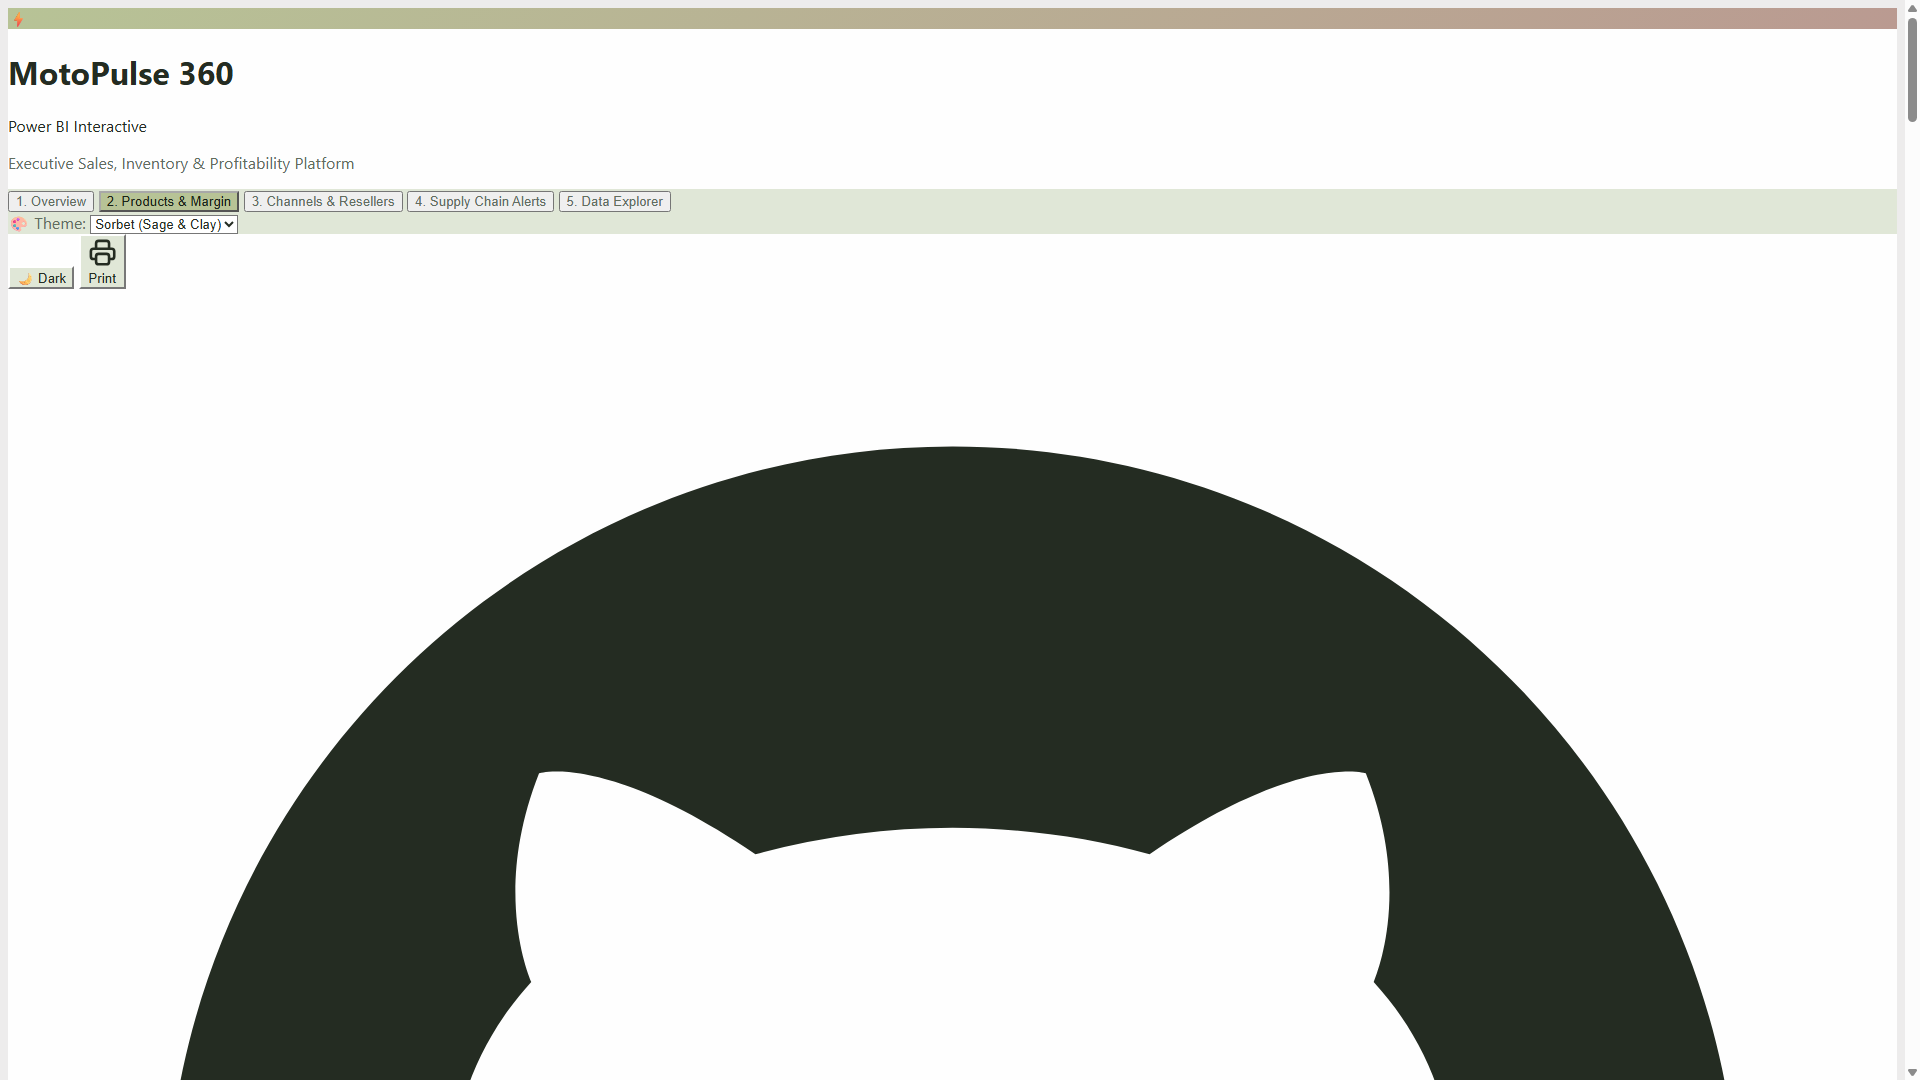
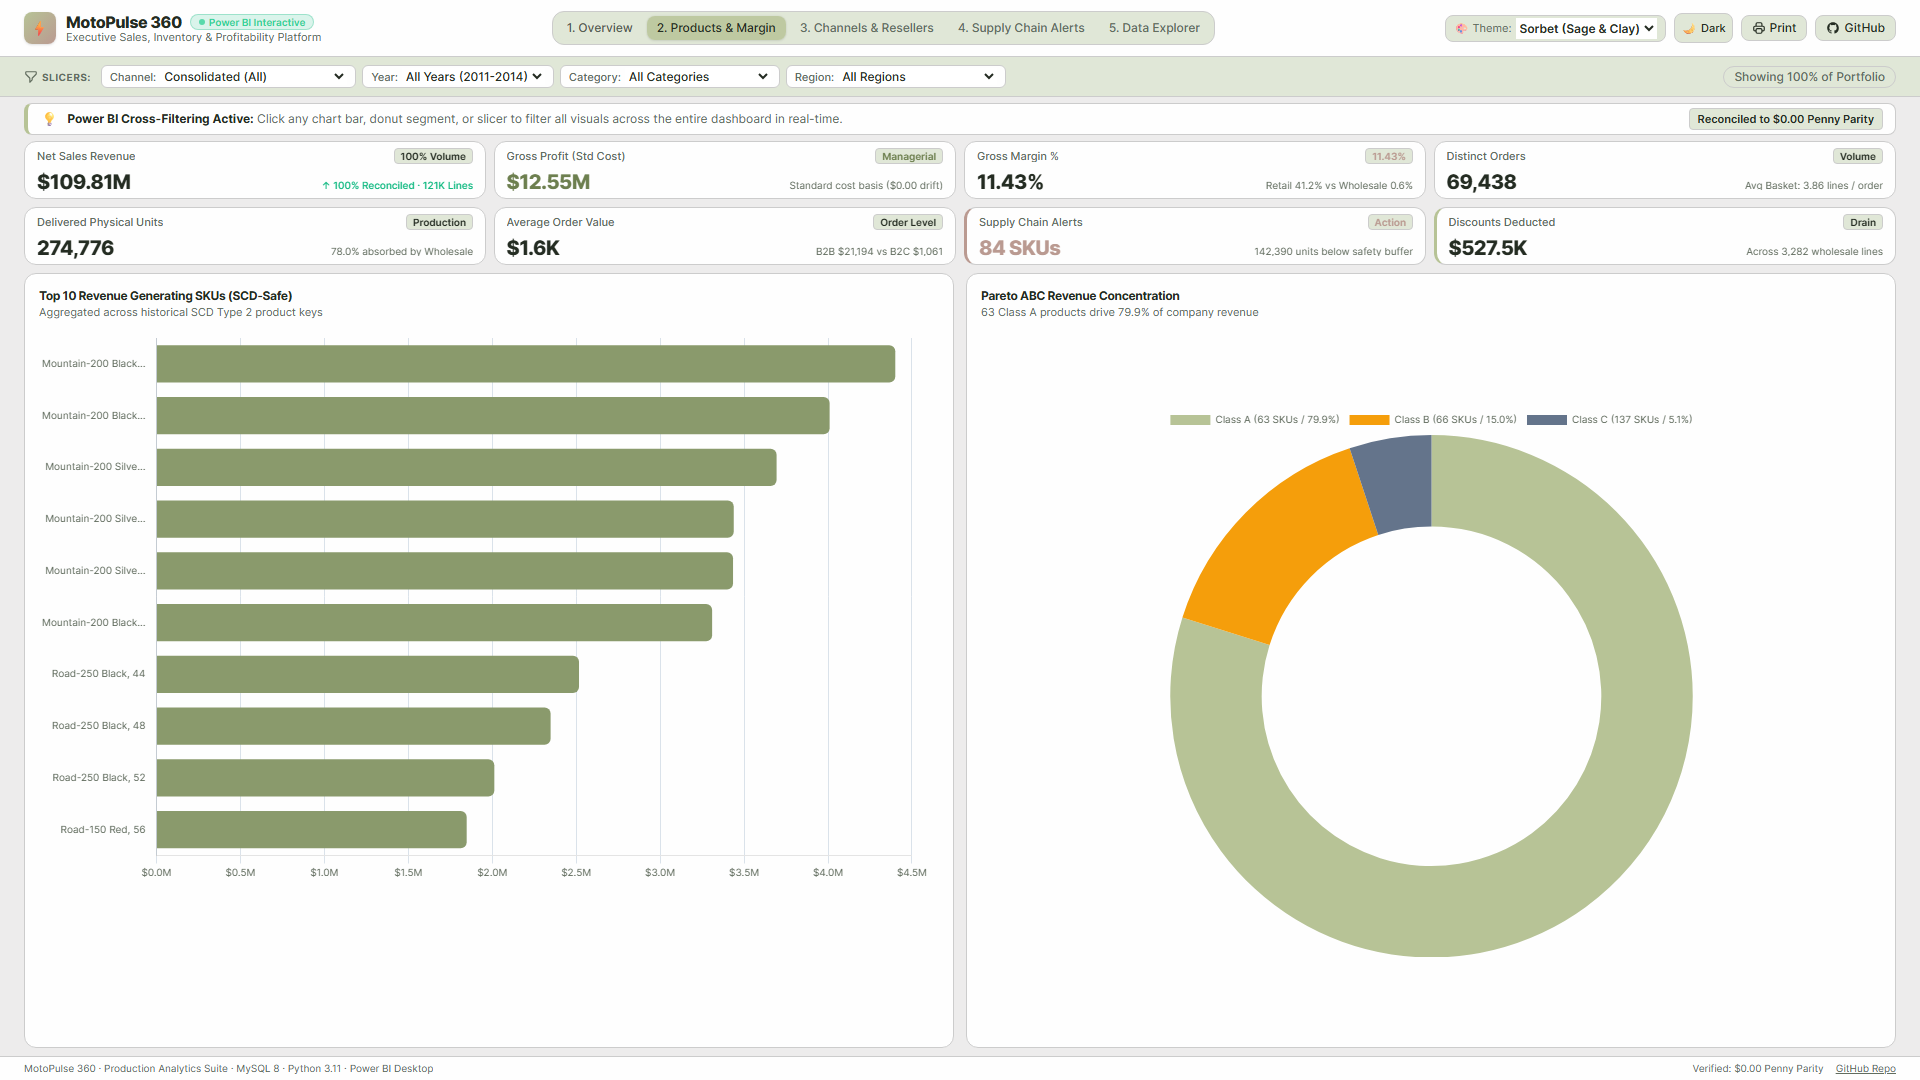
fix(docs): update all dashboard screenshots with fully rendered high-resolution UI and defensive SVG constraints

diff --git a/frontend/index.html b/frontend/index.html
@@ -70,6 +70,10 @@
     .no-scrollbar::-webkit-scrollbar { display: none; }
     .no-scrollbar { -ms-overflow-style: none; scrollbar-width: none; }
 
+    /* Defensive SVG constraints */
+    svg { max-width: 100%; }
+    header svg, section svg, button svg, a svg { max-width: 16px; max-height: 16px; }
+
     /* Chart clickable cursor */
     canvas { cursor: pointer; }
 
@@ -172,13 +176,13 @@
 
           <!-- Export Report / PDF Button -->
           <button onclick="window.print()" title="Print / Export PDF" class="hidden sm:flex items-center gap-1 text-xs font-medium px-2.5 py-1 rounded-lg bg-theme-elevated hover:opacity-80 border border-theme text-theme-main transition">
-            <svg class="w-3.5 h-3.5" fill="none" stroke="currentColor" viewBox="0 0 24 24"><path stroke-linecap="round" stroke-linejoin="round" stroke-width="2" d="M17 17h2a2 2 0 002-2v-4a2 2 0 00-2-2H5a2 2 0 00-2 2v4a2 2 0 002 2h2m2 4h6a2 2 0 002-2v-4a2 2 0 00-2-2H9a2 2 0 00-2 2v4a2 2 0 002 2zm8-12V5a2 2 0 00-2-2H9a2 2 0 00-2 2v4h10z"/></svg>
+            <svg class="w-3.5 h-3.5" width="14" height="14" style="width:14px;height:14px;max-width:14px;max-height:14px;flex-shrink:0;" fill="none" stroke="currentColor" viewBox="0 0 24 24"><path stroke-linecap="round" stroke-linejoin="round" stroke-width="2" d="M17 17h2a2 2 0 002-2v-4a2 2 0 00-2-2H5a2 2 0 00-2 2v4a2 2 0 002 2h2m2 4h6a2 2 0 002-2v-4a2 2 0 00-2-2H9a2 2 0 00-2 2v4a2 2 0 002 2zm8-12V5a2 2 0 00-2-2H9a2 2 0 00-2 2v4h10z"/></svg>
             Print
           </button>
 
           <!-- GitHub Repo Link -->
           <a href="https://github.com/nayanaastakar/MotoPulse-360-Sales-Inventory-Profitability-Analytics" target="_blank" class="flex items-center gap-1 text-xs font-medium px-2.5 py-1 rounded-lg bg-theme-elevated hover:opacity-80 border border-theme text-theme-main transition">
-            <svg class="w-3.5 h-3.5" fill="currentColor" viewBox="0 0 24 24"><path fill-rule="evenodd" clip-rule="evenodd" d="M12 2C6.477 2 2 6.484 2 12.017c0 4.425 2.865 8.18 6.839 9.504.5.092.682-.217.682-.483 0-.237-.008-.868-.013-1.703-2.782.605-3.369-1.343-3.369-1.343-.454-1.158-1.11-1.466-1.11-1.466-.908-.62.069-.608.069-.608 1.003.07 1.53 1.032 1.53 1.032.892 1.53 2.341 1.088 2.91.832.092-.647.35-1.088.636-1.338-2.22-.253-4.555-1.113-4.555-4.951 0-1.093.39-1.988 1.029-2.688-.103-.253-.446-1.272.098-2.65 0 0 .84-.27 2.75 1.026A9.564 9.564 0 0112 6.844c.85.004 1.705.115 2.504.337 1.909-1.296 2.747-1.027 2.747-1.027.546 1.379.202 2.398.1 2.651.64.7 1.028 1.595 1.028 2.688 0 3.848-2.339 4.695-4.566 4.943.359.309.678.92.678 1.855 0 1.338-.012 2.419-.012 2.747 0 .268.18.58.688.482A10.019 10.019 0 0022 12.017C22 6.484 17.522 2 12 2z"/></svg>
+            <svg class="w-3.5 h-3.5" width="14" height="14" style="width:14px;height:14px;max-width:14px;max-height:14px;flex-shrink:0;" fill="currentColor" viewBox="0 0 24 24"><path fill-rule="evenodd" clip-rule="evenodd" d="M12 2C6.477 2 2 6.484 2 12.017c0 4.425 2.865 8.18 6.839 9.504.5.092.682-.217.682-.483 0-.237-.008-.868-.013-1.703-2.782.605-3.369-1.343-3.369-1.343-.454-1.158-1.11-1.466-1.11-1.466-.908-.62.069-.608.069-.608 1.003.07 1.53 1.032 1.53 1.032.892 1.53 2.341 1.088 2.91.832.092-.647.35-1.088.636-1.338-2.22-.253-4.555-1.113-4.555-4.951 0-1.093.39-1.988 1.029-2.688-.103-.253-.446-1.272.098-2.65 0 0 .84-.27 2.75 1.026A9.564 9.564 0 0112 6.844c.85.004 1.705.115 2.504.337 1.909-1.296 2.747-1.027 2.747-1.027.546 1.379.202 2.398.1 2.651.64.7 1.028 1.595 1.028 2.688 0 3.848-2.339 4.695-4.566 4.943.359.309.678.92.678 1.855 0 1.338-.012 2.419-.012 2.747 0 .268.18.58.688.482A10.019 10.019 0 0022 12.017C22 6.484 17.522 2 12 2z"/></svg>
             <span class="hidden sm:inline">GitHub</span>
           </a>
 
@@ -206,7 +210,7 @@
       <div class="flex items-center gap-1.5 overflow-x-auto no-scrollbar py-0.5 flex-1 min-w-0">
         
         <div class="flex items-center gap-1 text-theme-muted font-bold uppercase tracking-wider text-[10px] mr-1 flex-shrink-0">
-          <svg class="w-3.5 h-3.5" style="color: var(--theme-primary);" fill="none" stroke="currentColor" viewBox="0 0 24 24"><path stroke-linecap="round" stroke-linejoin="round" stroke-width="2" d="M3 4a1 1 0 011-1h16a1 1 0 011 1v2.586a1 1 0 01-.293.707l-6.414 6.414a1 1 0 00-.293.707V17l-4 4v-6.586a1 1 0 00-.293-.707L3.293 7.293A1 1 0 013 6.586V4z"/></svg>
+          <svg class="w-3.5 h-3.5" width="14" height="14" style="width:14px;height:14px;max-width:14px;max-height:14px;flex-shrink:0;" style="color: var(--theme-primary);" fill="none" stroke="currentColor" viewBox="0 0 24 24"><path stroke-linecap="round" stroke-linejoin="round" stroke-width="2" d="M3 4a1 1 0 011-1h16a1 1 0 011 1v2.586a1 1 0 01-.293.707l-6.414 6.414a1 1 0 00-.293.707V17l-4 4v-6.586a1 1 0 00-.293-.707L3.293 7.293A1 1 0 013 6.586V4z"/></svg>
           Slicers:
         </div>
 
@@ -729,7 +733,7 @@
 
             <!-- Export Filtered CSV Button -->
             <button onclick="exportCurrentTableToCSV()" class="px-2.5 py-1 rounded-lg btn-primary-theme font-medium text-xs flex items-center gap-1 transition shadow h-7 whitespace-nowrap">
-              <svg class="w-3.5 h-3.5" fill="none" stroke="currentColor" viewBox="0 0 24 24"><path stroke-linecap="round" stroke-linejoin="round" stroke-width="2" d="M4 16v1a3 3 0 003 3h10a3 3 0 003-3v-1m-4-4l-4 4m0 0l-4-4m4 4V4"/></svg>
+              <svg class="w-3.5 h-3.5" width="14" height="14" style="width:14px;height:14px;max-width:14px;max-height:14px;flex-shrink:0;" fill="none" stroke="currentColor" viewBox="0 0 24 24"><path stroke-linecap="round" stroke-linejoin="round" stroke-width="2" d="M4 16v1a3 3 0 003 3h10a3 3 0 003-3v-1m-4-4l-4 4m0 0l-4-4m4 4V4"/></svg>
               Export CSV
             </button>
           </div>
